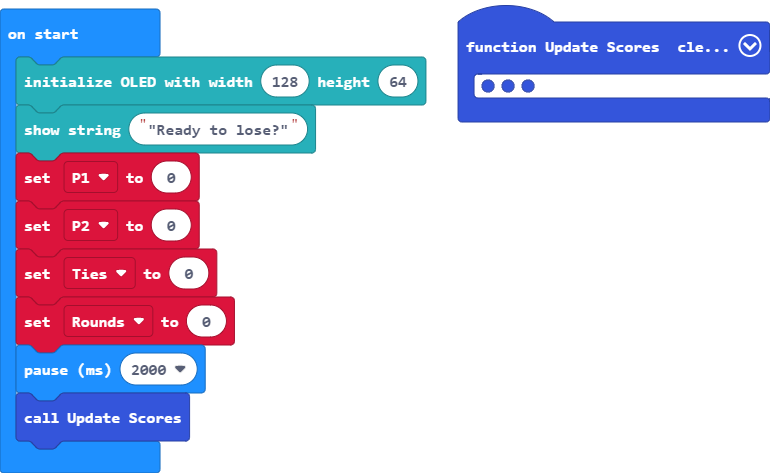
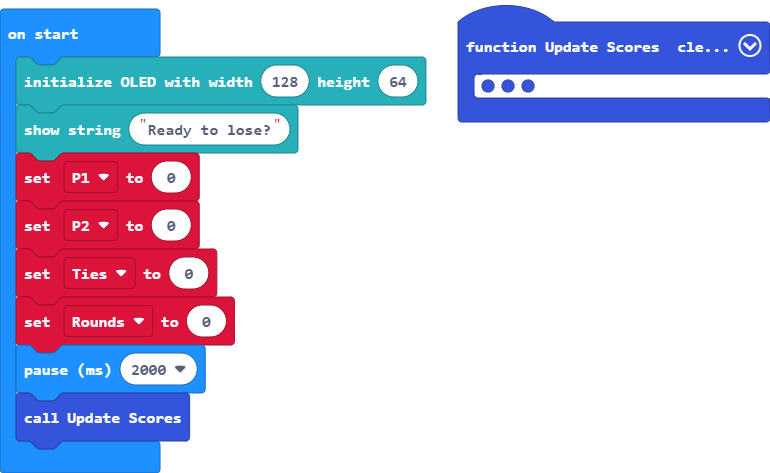
Update main.blocks, main.ts

Changed region(s): [[0.187, 0.2072, 0.4364, 0.3256]]

diff --git a/main.ts b/main.ts
@@ -13,7 +13,7 @@ let Ties = 0
 let P2 = 0
 let P1 = 0
 OLED.init(128, 64)
-OLED.writeStringNewLine("\"Ready to lose?\"")
+OLED.writeStringNewLine("Ready to lose?")
 P1 = 0
 P2 = 0
 Ties = 0
